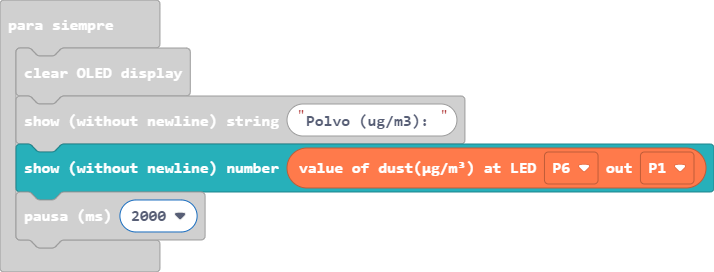
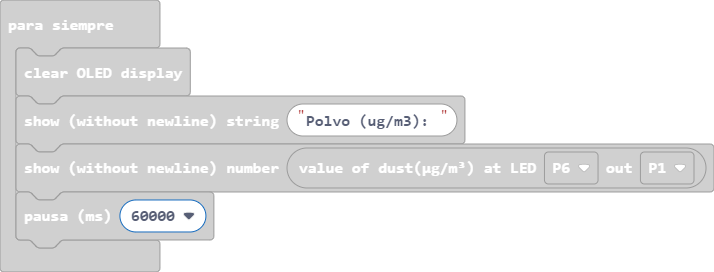
Muestreo cada minuto

Changed region(s): [[0.0, 0.5, 1.0, 0.8824]]

diff --git a/main.ts b/main.ts
@@ -3,5 +3,5 @@ basic.forever(function () {
     OLED.clear()
     OLED.writeString("Polvo (ug/m3): ")
     OLED.writeNum(Environment.ReadDust(DigitalPin.P6, AnalogPin.P1))
-    basic.pause(2000)
+    basic.pause(60000)
 })
